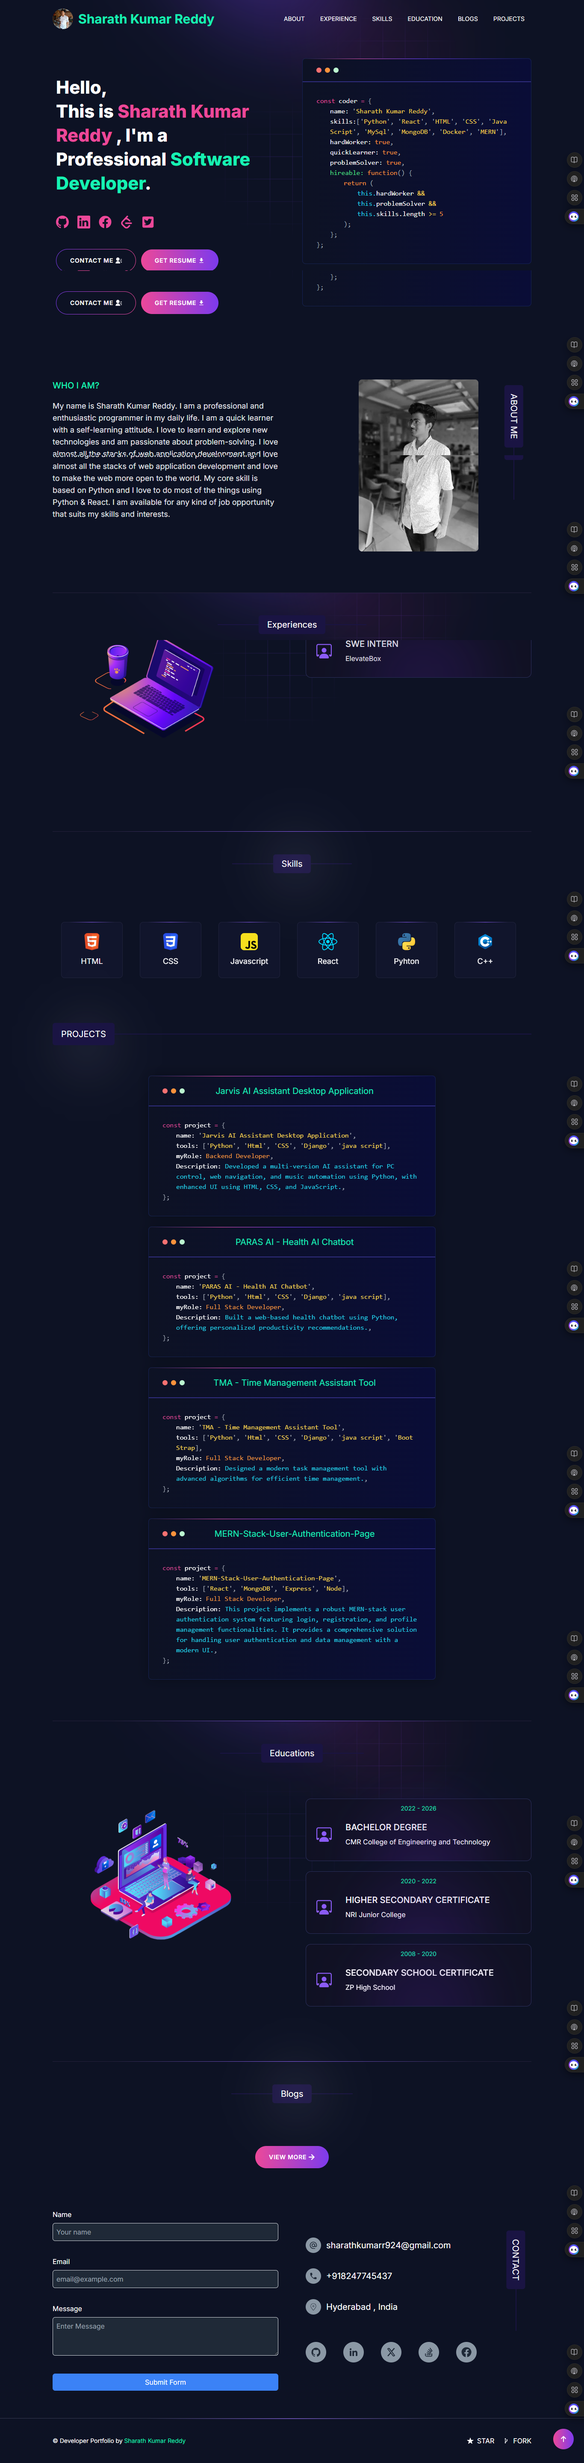
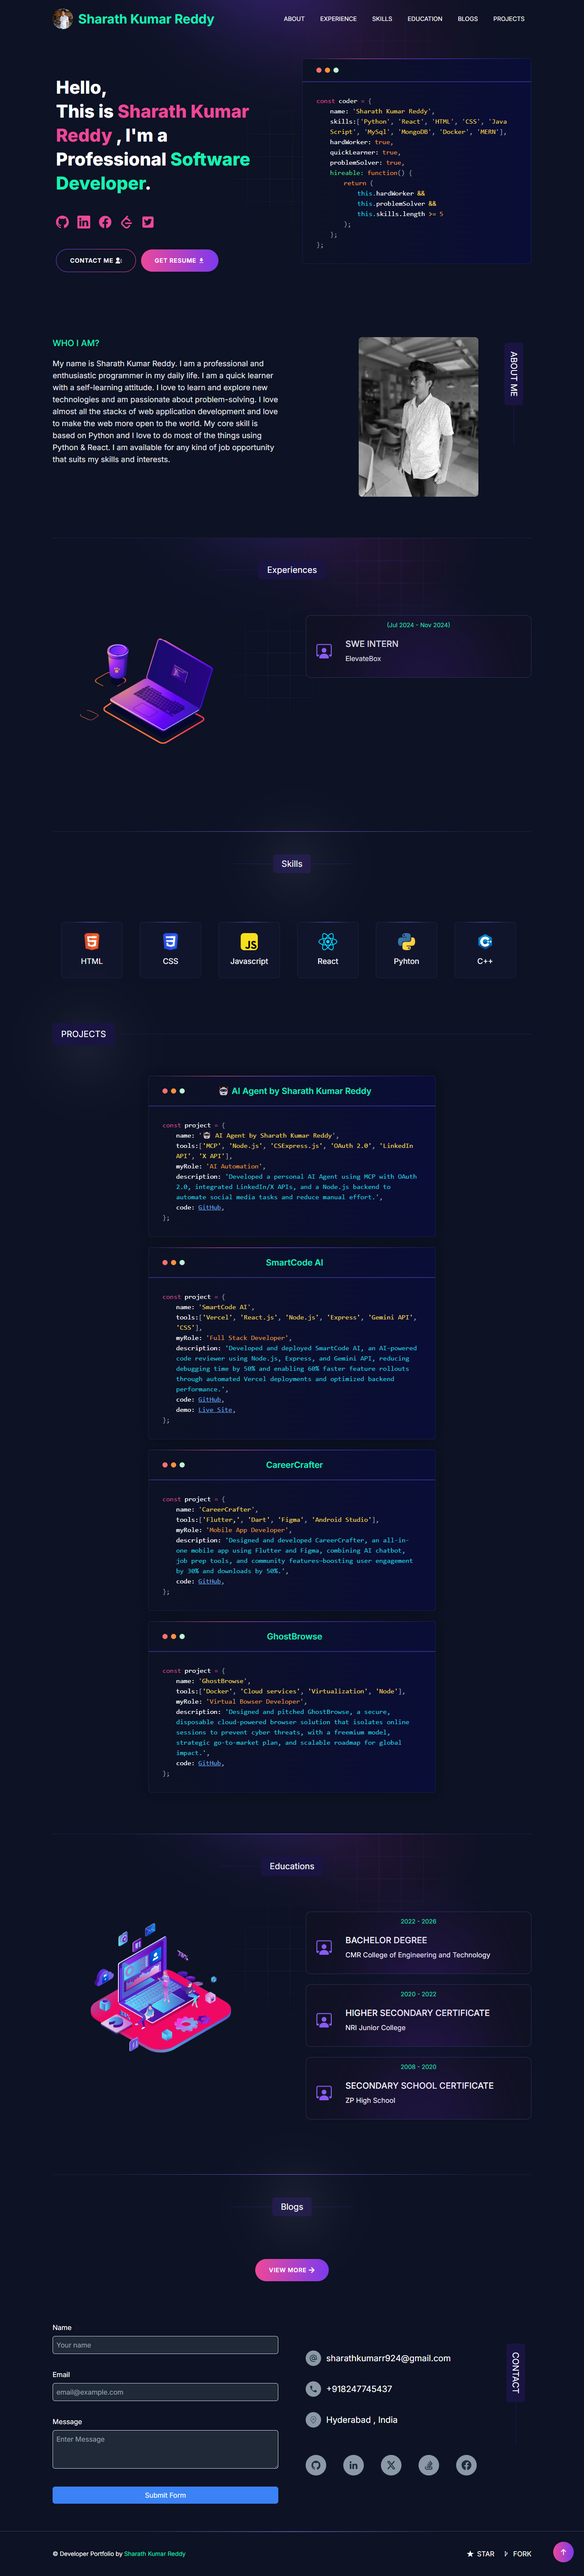
Commit

diff --git a/app/components/homepage/projects/project-card.jsx b/app/components/homepage/projects/project-card.jsx
@@ -1,25 +1,25 @@
 // @flow strict
-
 import * as React from 'react';
 
 function ProjectCard({ project }) {
-
   return (
     <div className="from-[#0d1224] border-[#1b2c68a0] relative rounded-lg border bg-gradient-to-r to-[#0a0d37] w-full">
       <div className="flex flex-row">
         <div className="h-[1px] w-full bg-gradient-to-r from-transparent via-pink-500 to-violet-600"></div>
         <div className="h-[1px] w-full bg-gradient-to-r from-violet-600 to-transparent"></div>
       </div>
+
       <div className="px-4 lg:px-8 py-3 lg:py-5 relative">
         <div className="flex flex-row space-x-1 lg:space-x-2 absolute top-1/2 -translate-y-1/2">
           <div className="h-2 w-2 lg:h-3 lg:w-3 rounded-full bg-red-400"></div>
           <div className="h-2 w-2 lg:h-3 lg:w-3 rounded-full bg-orange-400"></div>
           <div className="h-2 w-2 lg:h-3 lg:w-3 rounded-full bg-green-200"></div>
         </div>
-        <p className="text-center ml-3 text-[#16f2b3] text-base lg:text-xl">
+        <p className="text-center ml-3 text-[#16f2b3] text-base lg:text-xl font-semibold">
           {project.name}
         </p>
       </div>
+
       <div className="overflow-hidden border-t-[2px] border-indigo-900 px-4 lg:px-8 py-4 lg:py-8">
         <code className="font-mono text-xs md:text-sm lg:text-base">
           <div className="blink">
@@ -28,44 +28,67 @@ function ProjectCard({ project }) {
             <span className="mr-2 text-pink-500">=</span>
             <span className="text-gray-400">{'{'}</span>
           </div>
+
           <div>
             <span className="ml-4 lg:ml-8 mr-2 text-white">name:</span>
-            <span className="text-gray-400">{`'`}</span>
+            <span className="text-gray-400">'</span>
             <span className="text-amber-300">{project.name}</span>
-            <span className="text-gray-400">{`',`}</span>
+            <span className="text-gray-400">',</span>
           </div>
 
           <div className="ml-4 lg:ml-8 mr-2">
-            <span className=" text-white">tools:</span>
-            <span className="text-gray-400">{` ['`}</span>
+            <span className="text-white">tools:</span>
+            <span className="text-gray-400">[</span>
             {
               project.tools.map((tag, i) => (
                 <React.Fragment key={i}>
-                  <span className="text-amber-300">{tag}</span>
+                  <span className="text-amber-300">'{tag}'</span>
                   {
-                    project.tools.length - 1 !== i &&
-                    <span className="text-gray-400">{`', '`}</span>
+                    i < project.tools.length - 1 && <span className="text-gray-400">, </span>
                   }
                 </React.Fragment>
               ))
             }
-            <span className="text-gray-400">{"],"}</span>
+            <span className="text-gray-400">],</span>
           </div>
+
           <div>
             <span className="ml-4 lg:ml-8 mr-2 text-white">myRole:</span>
-            <span className="text-orange-400">{project.role}</span>
+            <span className="text-orange-400">'{project.role}'</span>
             <span className="text-gray-400">,</span>
           </div>
+
           <div className="ml-4 lg:ml-8 mr-2">
-            <span className="text-white">Description:</span>
-            <span className="text-cyan-400">{' ' + project.description}</span>
+            <span className="text-white">description:</span>
+            <span className="text-cyan-400"> '{project.description}'</span>
             <span className="text-gray-400">,</span>
           </div>
-          <div><span className="text-gray-400">{`};`}</span></div>
+
+          {project.code && (
+            <div className="ml-4 lg:ml-8 mr-2">
+              <span className="text-white">code:</span>
+              <a href={project.code} target="_blank" rel="noopener noreferrer" className="text-blue-400 underline ml-2">
+                GitHub
+              </a>
+              <span className="text-gray-400">,</span>
+            </div>
+          )}
+
+          {project.demo && (
+            <div className="ml-4 lg:ml-8 mr-2">
+              <span className="text-white">demo:</span>
+              <a href={project.demo} target="_blank" rel="noopener noreferrer" className="text-blue-400 underline ml-2">
+                Live Site
+              </a>
+              <span className="text-gray-400">,</span>
+            </div>
+          )}
+
+          <div><span className="text-gray-400">{'};'}</span></div>
         </code>
       </div>
     </div>
   );
-};
+}
 
 export default ProjectCard;

diff --git a/utils/data/projects-data.js b/utils/data/projects-data.js
@@ -6,43 +6,44 @@ import travel from '/public/image/travel.jpg';
 export const projectsData = [
     {
         id: 1,
-        name: 'Jarvis AI Assistant Desktop Application',
-        description: "Developed a multi-version AI assistant for PC control, web navigation, and music automation using Python, with enhanced UI using HTML, CSS, and JavaScript.",
-        tools: ['Python','Html','CSS','Django','java script'],
-        role: 'Backend Developer',
-        code: '',
+        name: '🤖 AI Agent by Sharath Kumar Reddy',
+        description: "Developed a personal AI Agent using MCP with OAuth 2.0, integrated LinkedIn/X APIs, and a Node.js backend to automate social media tasks and reduce manual effort.",
+        tools: ['MCP','Node.js','CSExpress.js','OAuth 2.0','LinkedIn API', 'X API'],
+        role: 'AI Automation',
+        code: 'https://github.com/sharath-66b6/AI-Agent-by-Sharath-Kumar-Reddy',
         demo: '',
         image: crefin,
     },
     {
         id: 2,
-        name: 'PARAS AI - Health AI Chatbot',
-        description: 'Built a web-based health chatbot using Python, offering personalized productivity recommendations.',
-        tools: ['Python','Html','CSS','Django','java script'],
+        name: 'SmartCode AI',
+        description: 'Developed and deployed SmartCode AI, an AI-powered code reviewer using Node.js, Express, and Gemini API, reducing debugging time by 50% and enabling 60% faster feature rollouts through automated Vercel deployments and optimized backend performance.',
+        tools: ['Vercel', 'React.js', 'Node.js', 'Express', 'Gemini API', 'CSS'],
         role: 'Full Stack Developer',
-        code: '',
-        demo: '',
+        code: 'https://github.com/sharath-66b6/SmartCode-AI__',
+        demo: 'https://smartcode-ai.vercel.app/',
         image: travel,
     },
     {
         id: 3,
-        name: 'TMA - Time Management Assistant Tool',
-        description: 'Designed a modern task management tool with advanced algorithms for efficient time management.',
-        tools: ['Python','Html','CSS','Django','java script','Boot Strap'],
-        code: '',
-        role: 'Full Stack Developer',
+        name: 'CareerCrafter',
+        description: 'Designed and developed CareerCrafter, an all-in-one mobile app using Flutter and Figma, combining AI chatbot, job prep tools, and community features—boosting user engagement by 30% and downloads by 50%.',
+        tools: ['Flutter,','Dart','Figma', 'Android Studio'],
+        role: 'Mobile App Developer',
+        code: 'https://github.com/sharath-66b6/CareerCrafter',
         demo: '',
         image: realEstate,
     },
     {
         id: 4,
-        name: 'MERN-Stack-User-Authentication-Page',
-        description: "This project implements a robust MERN-stack user authentication system featuring login, registration, and profile management functionalities. It provides a comprehensive solution for handling user authentication and data management with a modern UI.",
-        tools: ['React','MongoDB','Express','Node'],
-        code: '',
+        name: 'GhostBrowse',
+        description: "Designed and pitched GhostBrowse, a secure, disposable cloud-powered browser solution that isolates online sessions to prevent cyber threats, with a freemium model, strategic go-to-market plan, and scalable roadmap for global impact.",
+        tools: ['Docker','Cloud services','Virtualization','Node'],
+        role: 'Virtual Bowser Developer',
+        code: 'https://github.com/sharath-66b6/GhostBrowse2',
         demo: '',
         image: ayla,
-        role: 'Full Stack Developer',
+        
     }
 ];
 

diff --git a/app/components/footer.jsx b/app/components/footer.jsx
@@ -12,12 +12,12 @@ function Footer() {
         </div>
         <div className="flex flex-col md:flex-row items-center justify-between">
           <p className="text-sm">
-            © Developer Portfolio by <Link target="_blank" href="https://www.youtube.com/@NetHyTech" className="text-[#16f2b3]">Sharath Kumar Reddy</Link>
+            © Developer Portfolio by <Link target="_blank" href="https://www.linkedin.com/in/sharath-kumar-reddy-software-engineer" className="text-[#16f2b3]">Sharath Kumar Reddy</Link>
           </p>
           <div className="flex items-center gap-5">
             <Link
               target="_blank"
-              href="https://www.youtube.com/@NetHyTech"
+              href="https://github.com/sharath-66b6/Portfolio.git"
               className="flex items-center gap-2 uppercase hover:text-[#16f2b3]"
             >
               <IoStar />
@@ -25,7 +25,7 @@ function Footer() {
             </Link>
             <Link
               target="_blank"
-              href="https://www.youtube.com/@NetHyTech"
+              href="https://github.com/sharath-66b6/Portfolio.git"
               className="flex items-center gap-2 uppercase hover:text-[#16f2b3]"
             >
               <CgGitFork />

diff --git a/utils/data/personal-data.js b/utils/data/personal-data.js
@@ -9,9 +9,9 @@ export const personalData = {
   github: 'https://github.com/Sharath-66b6',
   facebook: 'https://www.facebook.com/sharath/',
   linkedIn: 'https://www.linkedin.com/in/sharath-kumar-reddy-software-engineer/',
-  twitter: 'https://x.com/sharath',
-  stackOverflow: 'https://stackoverflow.com/users/Sharath',
+  twitter: 'https://x.com/Sharath56567820',
+  stackOverflow: 'https://stackoverflow.com/users/30309308/sharath-kumar-reddy?tab=profile',
   leetcode: "https://leetcode.com/u/Sharath7123/",
   devUsername: "Sharath",
-  resume: "https://drive.google.com/file/d/18cE4lk2JrkFV26mUADaWVXOQuJwfme_H/view?usp=sharing",
+  resume: "https://drive.google.com/file/d/1XWDmk6HakI4DeziMoC5pRxncEccvY7eU/view?usp=sharingconsole.log('Personal Data:', personalData);",
 }

diff --git a/app/layout.js b/app/layout.js
@@ -13,7 +13,10 @@ export const metadata = {
   title: "Sharath Kumar Reddy",
   description:
     "This is the portfolio of  Sharath Kumar Reddy. I am a full stack developer and a self taught developer. I love to learn new things and I am always open to collaborating with others. I am a quick learner and I am always looking for new challenges.",
-};
+    icons: {
+      icon: "/favicon.ico",
+    },
+}
 
 export default function RootLayout({ children }) {
   return (

diff --git a/app/components/homepage/contact/index.jsx b/app/components/homepage/contact/index.jsx
@@ -35,7 +35,7 @@ function ContactSection() {
           Accept: "application/json",
         },
         body: JSON.stringify({
-          access_key: "c9f062d1-6490-4bce-b97d-707b630368b9", // Replace with your actual access key
+          access_key: "31e6cbde-a575-49df-bbd6-05922d01c96e", // Replace with your actual access key
           name: formData.name,
           email: formData.email,
           message: formData.message,

diff --git a/app/components/homepage/projects/index.jsx b/app/components/homepage/projects/index.jsx
@@ -17,7 +17,7 @@ const Projects = () => {
 
       <div className="pt-24">
         <div className="flex flex-col gap-6">
-          {projectsData.slice(0, 4).map((project, index) => (
+          {projectsData.slice(0, 6).map((project, index) => (
             <div
               id={`sticky-card-${index + 1}`}
               key={index}
